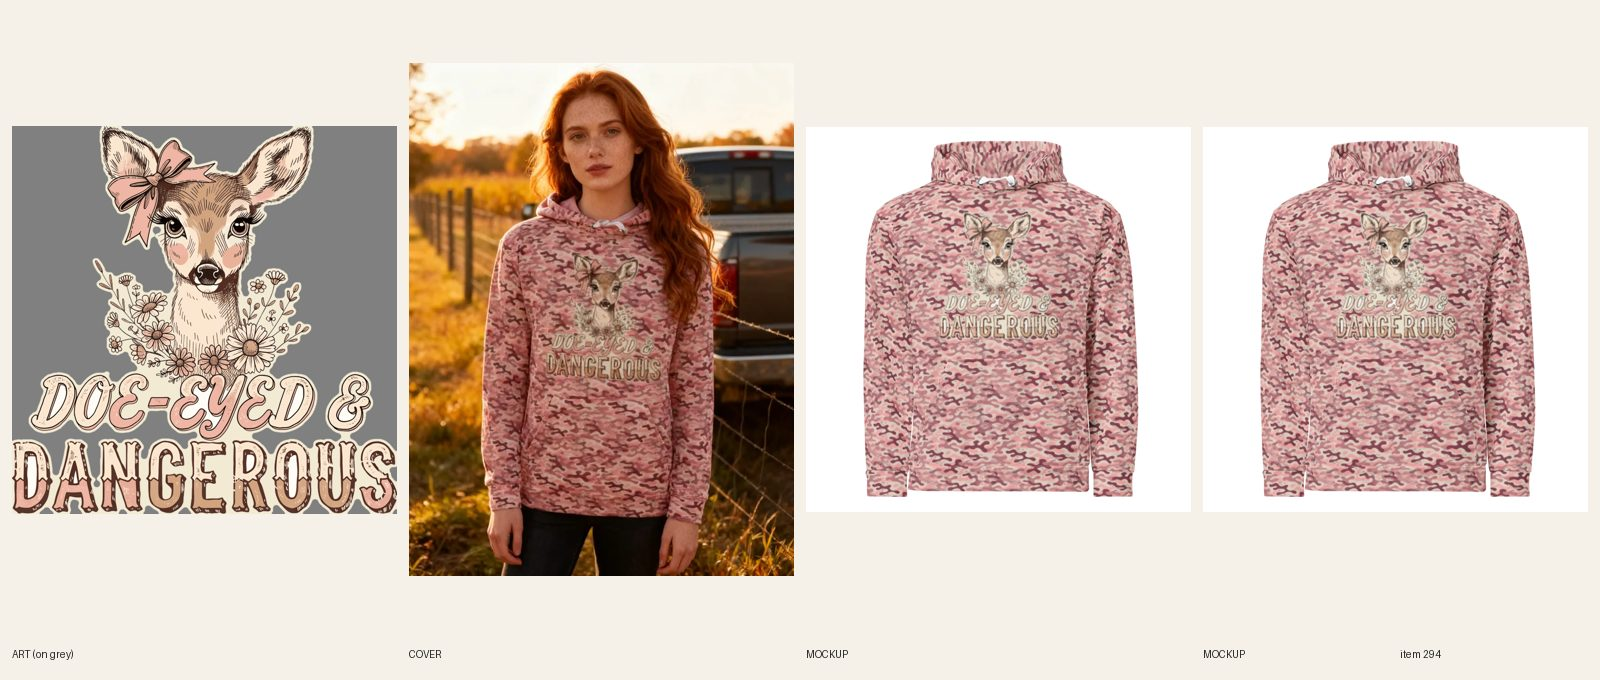
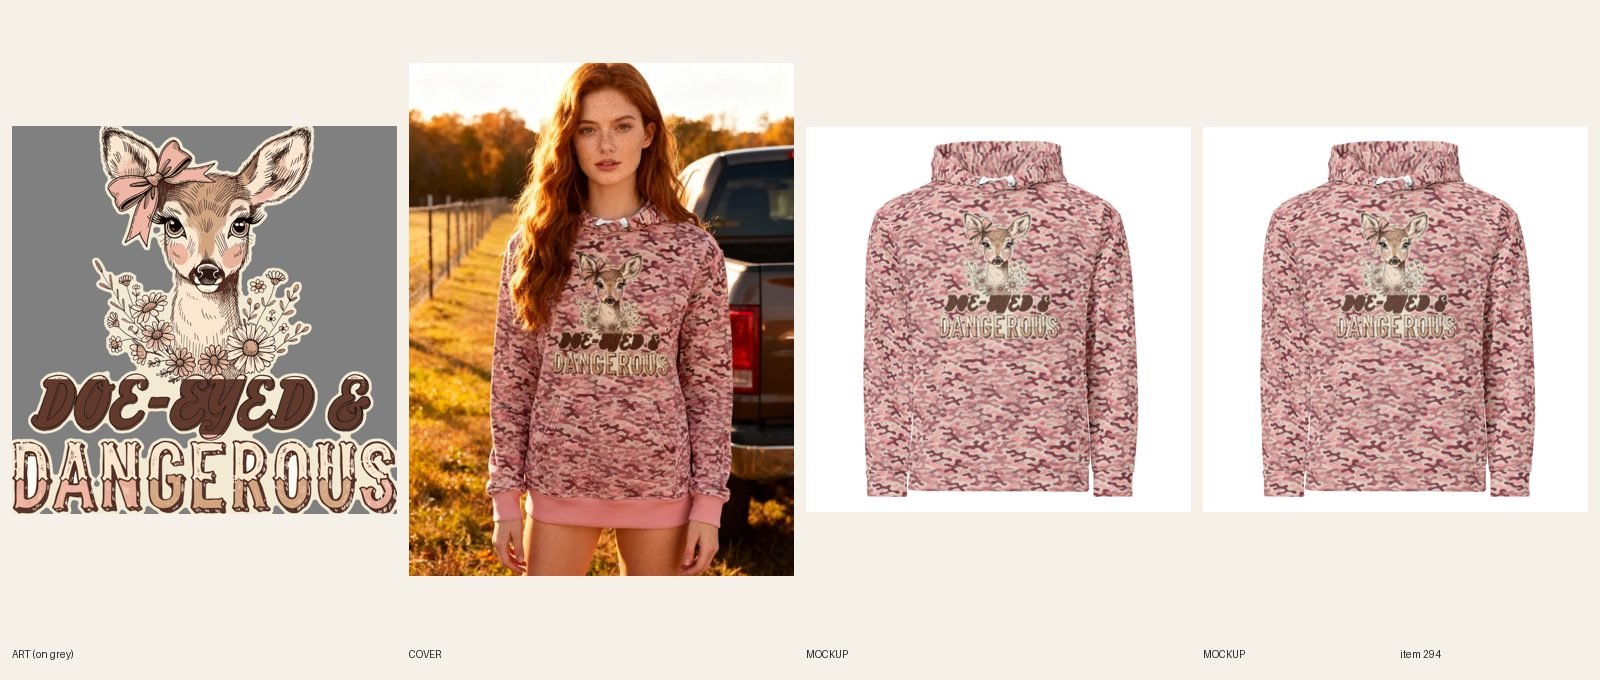
[B] REVIEW #293 redo (full-draw bowhunter art), #294 redo (chocolate script)
Claude-Session: https://claude.ai/code/session_018WH58ghRq1FWGpkcJVrUBA

Changed region(s): [[0.0, 0.0926, 0.5, 0.8647], [0.8125, 0.4324, 0.9062, 0.4632], [0.5938, 0.4324, 0.6562, 0.4632]]

diff --git a/docs/model-registry.md b/docs/model-registry.md
@@ -362,7 +362,7 @@ Rows 11–43 were re-pointed on 2026-10-08 when the briefs were rewritten from d
 | 472 | Native American man, late 30s, long black hair in a low ponytail, clean-shaven, tall build | USED 2026-10-17 — #291 Not Yelling Bugling camo hoodie cover (try 1, image 1 of 3) |
 | 473 | Korean-American man, early 30s, short black hair under a camo cap, thin mustache, average build | USED 2026-10-17 — #292 Fluent in Honk camo hoodie cover (redo: ragged ground edge and cream lettering plate, new cover try 1, image 2 of 3) |
 | 474 | White man, early 30s, red beard, short red hair, lean athletic build | USED 2026-10-17 — #293 Full Draw Zero Deer camo hoodie cover (redo: new full-draw art, new cover try 1, image 1 of 3) |
-| 475 | White woman, mid 20s, long wavy auburn hair, light freckles, slim build | USED 2026-10-17 — #294 Doe-Eyed and Dangerous pink camo hoodie cover (try 1, image 2 of 3) |
+| 475 | White woman, mid 20s, long wavy auburn hair, light freckles, slim build | USED 2026-10-17 — #294 Doe-Eyed and Dangerous pink camo hoodie cover (redo: chocolate script re-ink, new cover from the new mockup, image 2 of 3 on the third attempt; the image model misreads the small script as DOE-WED on every attempt, the mockup is right) |
 | 476 | Mexican-American woman, early 30s, long dark hair in a high ponytail, gold hoop earrings | USED 2026-10-17 — #295 Deer Stand Princess pink camo hoodie cover (try 1, image 2 of 3) |
 | 477 | White man, late 50s, white mustache, weathered face, flannel cap, heavyset | USED 2026-10-17 — #296 Deer Camp No Signal camo sweatshirt cover (try 1, image 1 of 3) |
 | 478 | Black woman, mid 20s, long box braids, gold jewelry, slim build | USED 2026-10-17 — #297 Blending In Is Overrated camo sweatshirt cover (try 1, image 3 of 3) |

diff --git a/docs/pipeline/293-camo-hoodie-full-draw-zero-deer.md b/docs/pipeline/293-camo-hoodie-full-draw-zero-deer.md
@@ -1,4 +1,4 @@
-status: BUILDING [B] 2026-10-17 11:10
+status: REVIEW
 lane: B
 type: new
 id: 293
@@ -27,3 +27,4 @@ handle: mens-hunting-full-draw-zero-deer-camo-hoodie
   1. R5.3.4 / R3.7.1: the joke is FULL DRAW, but the bow is not drawn: the string runs straight and the arrow just floats through the riser, so a hunter sees a bow at rest and the line doesn't land. Also camo-halo filled the whole space between riser and string, so the bow reads as a solid cream D-shaped plate behind the squirrel (R4.1 patch). Regenerate (try 2 of 2, R5.4): a bowhunter seen from behind in a tree stand at true full draw (string pulled back to the cheek, arrow nocked and on the rest, cams turned over) aimed at empty woods, a squirrel on a nearby branch staring back. Keep FULL DRAW, / ZERO DEER in the same hand-drawn orange.
   2. Run camo-halo.py with a smaller close value so open gaps between string and limbs stay camo, not cream. Preview on Darkwood and Forest.
   3. New file, mockups, cover from the new mockup (R6.7), then REVIEW.
+- 2026-10-17 01:40 UTC [B]: REDO fix (round 1, try 2 of 2, R5.4): new Recraft v4 art, a bowhunter seen from behind in a ladder tree stand at true full draw (string at the cheek, arrow nocked and on the rest, cams turned over) aimed at empty woods while a squirrel stares back from a branch; FULL DRAW, / ZERO DEER in the same hand-drawn orange (spelling checked). camo-halo.py now takes FILL=0 and close 0 so open gaps between string, limbs and branches stay camo instead of cream (print 3600 x 4882, halo 18), Printful file 1087957459, FW 1200 TOP 0, re-linked 14/14, mockups replaced in place, copy updated for the new scene, cover from the new Forest mockup (registry #474, redo try 1, image 1 of 3). Set REVIEW. Sheet docs/review/293.jpg.

diff --git a/docs/pipeline/294-pink-camo-hoodie-doe-eyed-dangerous.md b/docs/pipeline/294-pink-camo-hoodie-doe-eyed-dangerous.md
@@ -1,4 +1,4 @@
-status: REDO
+status: REVIEW
 lane: B
 type: new
 id: 294
@@ -29,3 +29,4 @@ handle: womens-hunting-doe-eyed-and-dangerous-pink-camo-hoodie
   1. R5.3.5: DOE-EYED & in pale pink script disappears into the pink camo at phone size (on both mockups and the cover only DANGEROUS reads), so half the joke is lost. Re-ink the script line in deep berry or chocolate brown with a thin cream outline (or put the camo-halo cream backing under the lettering, like the IND4000 camo items), in print-prep only; no new generation.
   2. Re-render the front panel with aop-panels.py, re-upload, re-sync, new mockups and a new cover from the new mockup (R6.7, keep the same registry woman and the truck scene).
   3. Everything else on the AOP pilot passes: pattern, panels, price, sizes, copy. Note the fix in the pilot notes so #295-298 start with readable lettering.
+- 2026-10-17 01:40 UTC [B]: REDO fix (round 1): the DOE-EYED & script is re-inked in chocolate brown (print-prep only: light fill pixels of the script band recolored, outline kept) with the cream camo-halo around it, DANGEROUS unchanged, front panel re-rendered with aop-panels.py (1700 px, top 1250), new front file 1087959024, re-synced 11/11, mockups replaced in place (front, back, left front), cover regenerated from the new mockup (registry #475, truck scene, third attempt; the image model misreads the small script as DOE-WED on every attempt even from a zoomed reference, while the Printful mockup shows DOE-EYED correctly). Pilot note for #295-298: any small or pale lettering gets re-inked dark or a thick cream halo before the panel is rendered. Set REVIEW. Sheet docs/review/294.jpg.
